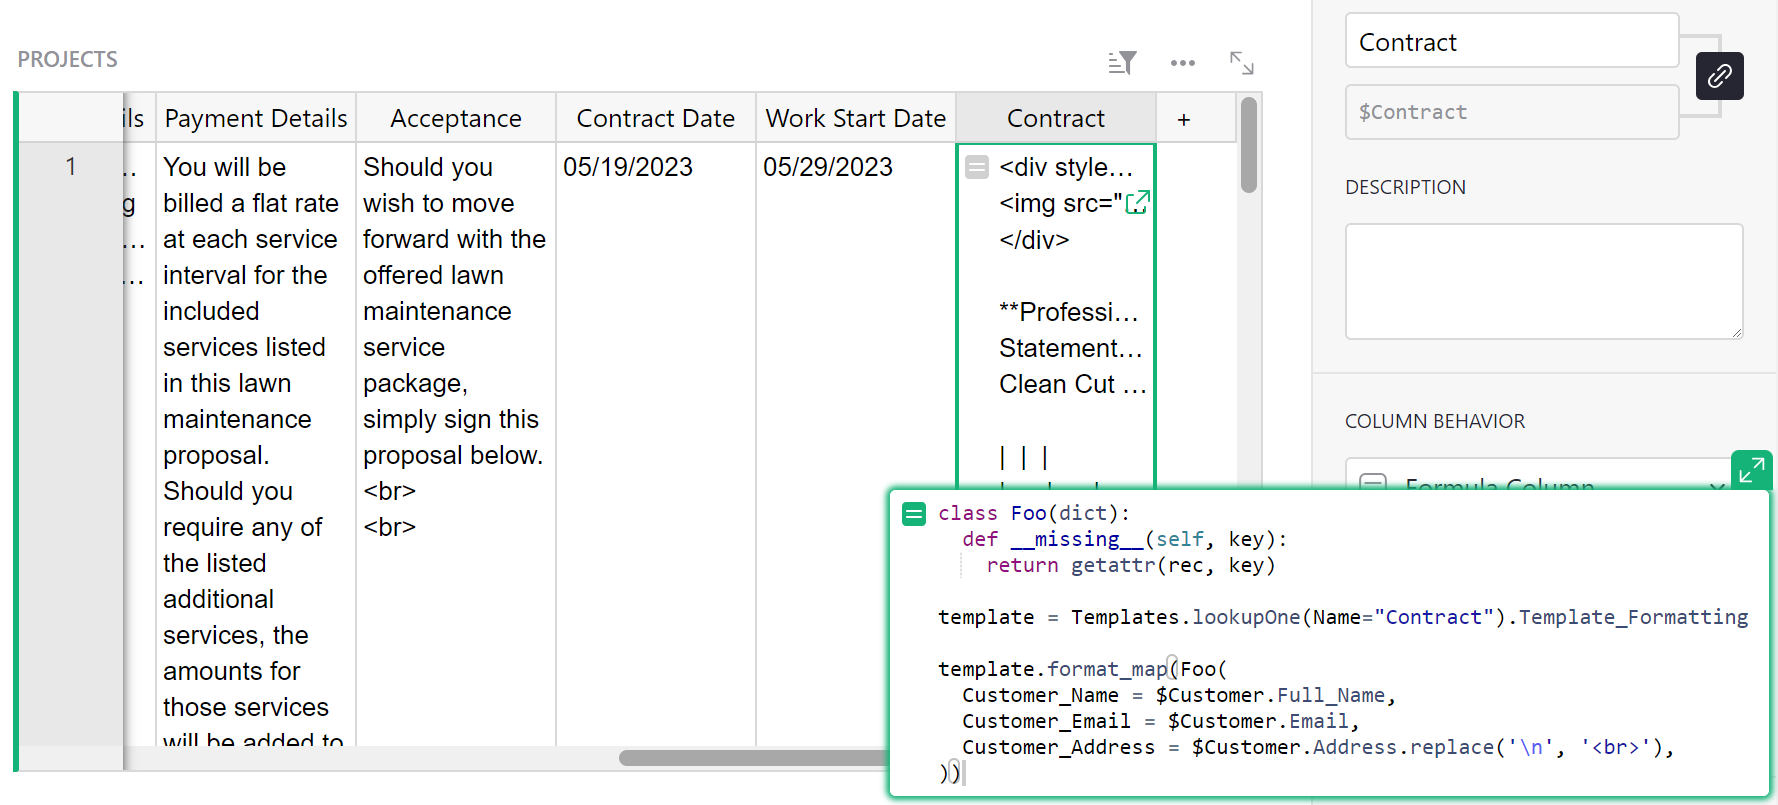
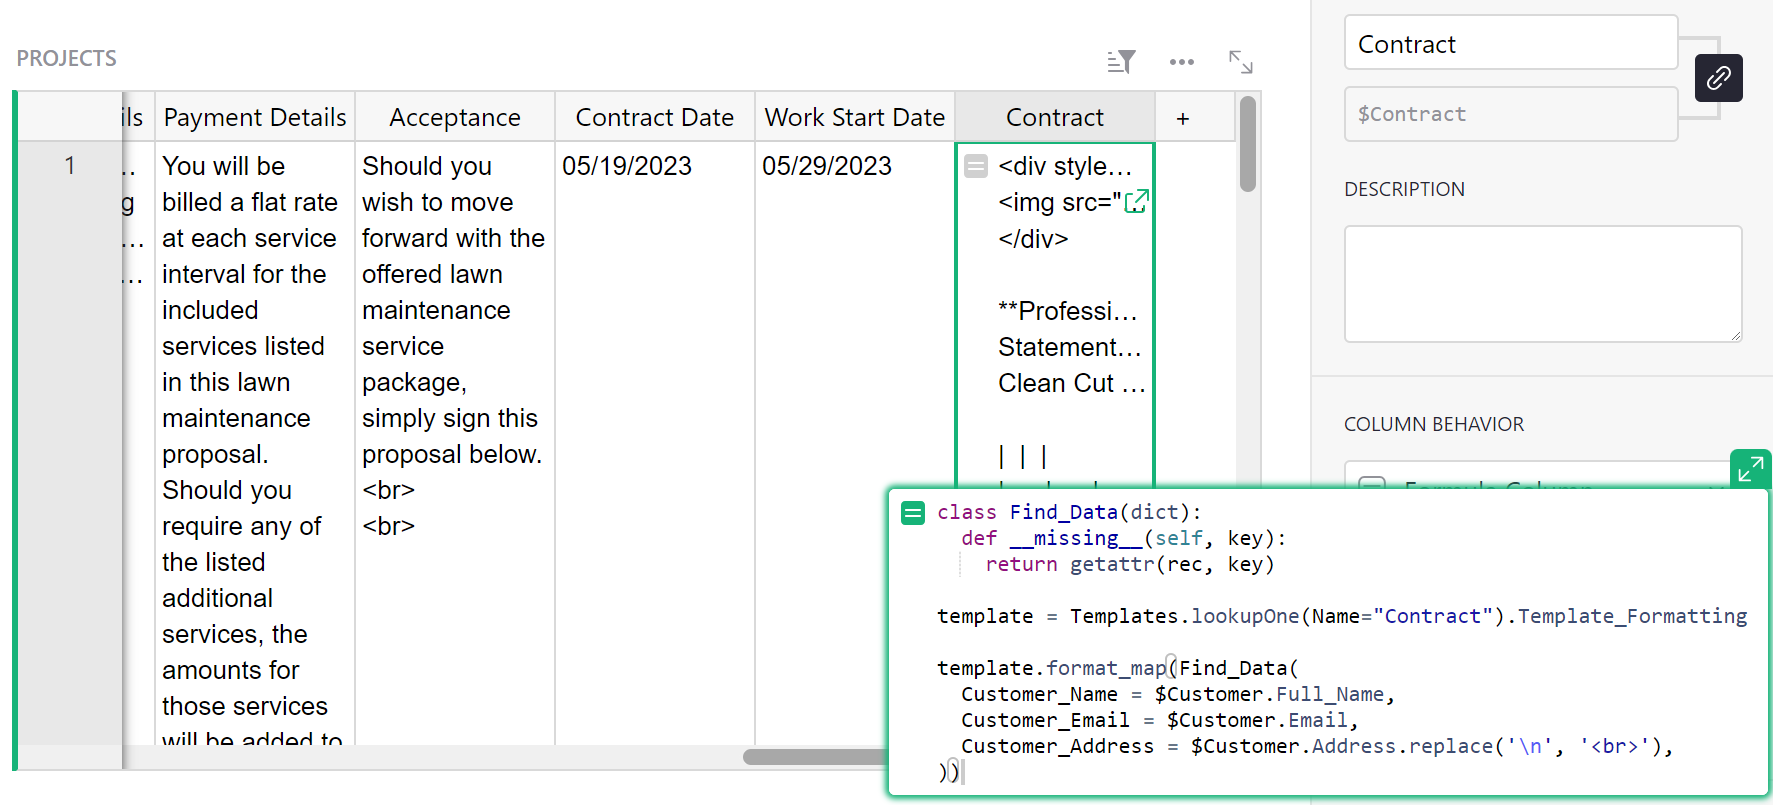
Made updates per Nick's comments

diff --git a/help/examples/2023-07-proposals-contracts.md b/help/examples/2023-07-proposals-contracts.md
@@ -15,8 +15,9 @@ First of all, make a table to record project details by
 
 *![Projects](/examples/images/2023-07-proposals-contracts/make-projects-table.png)*
 
-We'll create our Proposal template alongside our `Projects` table. We can insert column IDs as placeholders in our Proposal template that
-will then be replaced by the cell value for the selected project. This makes it easier to build these out side by side.
+We'll create our Proposal template alongside our `Projects` table. 
+
+We can insert column IDs as placeholders in our Proposal template that will then be replaced by the cell value for the selected project. For example, in the screenshot below, the value in the **Project Name** column will replace the variable `{Project_Name}` in the proposal template on the right. Seeing the available columns while creating our proposal will make it easier to populate those variables.
 
 *![Projects](/examples/images/2023-07-proposals-contracts/column-placeholders.png)*
 
@@ -71,16 +72,15 @@ Finish building out your template to fit your needs. Be sure to add a column to 
 Finally, we need to add a formula column that will create our unique proposals. This formula column will combine the template formatting we just created with our project-specifc data. Add a new column to the `Projects` table with the following formula;
 ```
 # Finds all data associated with this record
-class Foo(dict):
+class Find_Data(dict):
   def __missing__(self, key):
     return getattr(rec, key)
 
 # Finds the "Proposal" template in the Templates table
 template = Templates.lookupOne(Name="Proposal").Template_Formatting
 
-# Formats the template with fields from this table
-template.format_map(Foo(
-))
+# Formats the template with fields from this table as well as fields from the referenced table
+template.format_map(Find_Data())
 ```
 
 ![Proposal Formula](/examples/images/2023-07-proposals-contracts/proposal-formula.png)
@@ -99,10 +99,18 @@ Add a new widget to the page by clicking the green 'Add New' button then 'Add wi
 
 ![Add Project Card](/examples/images/2023-07-proposals-contracts/add-projects-card.png)
 
+Your dashboard should look similar to the screenshot below.
+
+![project-dashboard-start](/examples/images/2023-07-proposals-contracts/project-dashboard-start.png)
+
 Now that we have all of our Project details in a Card view, we can hide them from our table view. Under the Table tab of the Creator Panel, select all columns except Project Name and Customer Name then click the green 'Hide Columns' button.
 
 *![Hide Columns](/examples/images/2023-07-proposals-contracts/hide-project-columns.png)*
 {: .screenshot-half }
+
+By keeping most project details in the Card widget, rather than the table widget, it simplifies our dashboard. You can easily see all projects in the table widget and when you want to see details for a specific project, select the project and the card widget will update to show you project details.
+
+![project-table-card](/examples/images/2023-07-proposals-contracts/project-table-card.png)
 
 Finally, we'll want to add a view of our project-specific proposal. Add a new custom widget to the page by clicking the green 'Add New' button then 'Add widget to page'. Under 'Select Widget', select *Custom* and under 'Select Data', select *Projects*. Under 'Select By', select *Projects* and add to page.
 
@@ -156,7 +164,7 @@ We can modify our formula in the **Proposal** column to look for data in other t
 In the `Projects1` table, update the formula in the **Proposals** column to the following;
 ```
 # Finds all data associated with this record
-class Foo(dict):
+class Find_Data(dict):
   def __missing__(self, key):
     return getattr(rec, key)
 
@@ -164,7 +172,7 @@ class Foo(dict):
 template = Templates.lookupOne(Name="Proposal").Template_Formatting
 
 # Formats the template with fields from this table as well as fields from the referenced table
-template.format_map(Foo(
+template.format_map(Find_Data(
   Customer_Name = $Customer_Name.Name,
 ))
 ```
@@ -176,7 +184,7 @@ In the last portion of the formula, we can specify variables that pull from othe
     The **Customer Address** column can be deleted from the `Projects` table completely. This data is already stored in the `Customers` table and our **Customer Name** column is a reference column pointing to this table. We can use this reference column to pull any other information from the `Customers` table to include in our proposal. If you choose to delete **Customer Address** from the `Projects` table, update the last section of formula to the following;
 
     ```
-    template.format_map(Foo(
+    template.format_map(Find_data(
       Customer_Name = $Customer_Name.Name,
       Customer_Address = $Customer_Name.Address.replace('\n', '<br>'),
     ))
